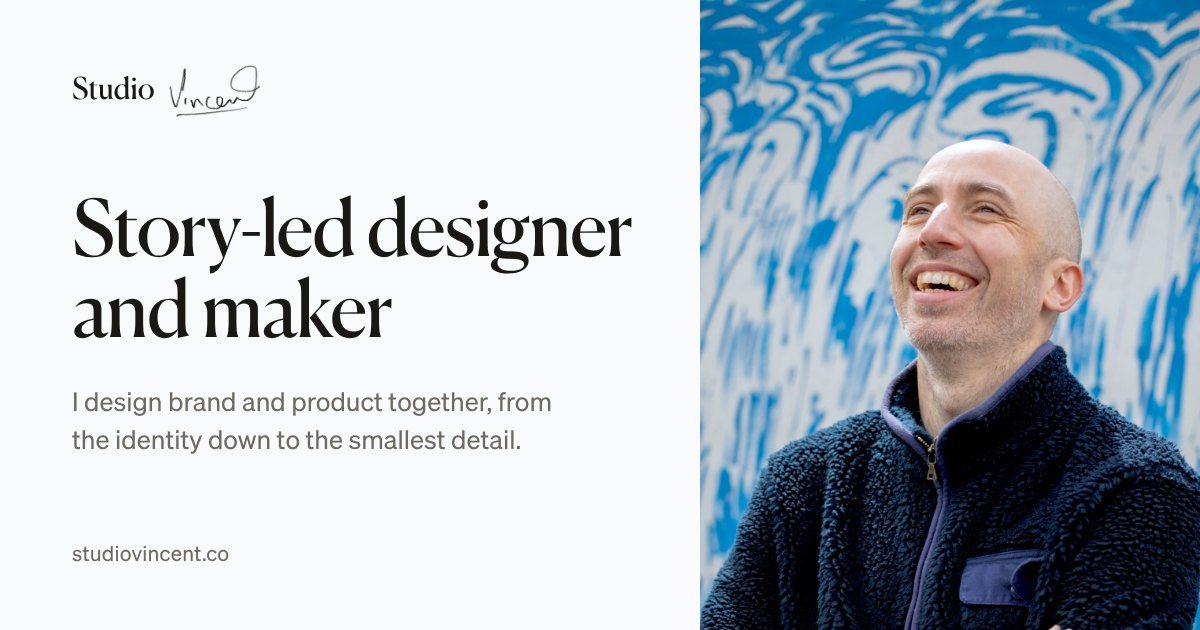
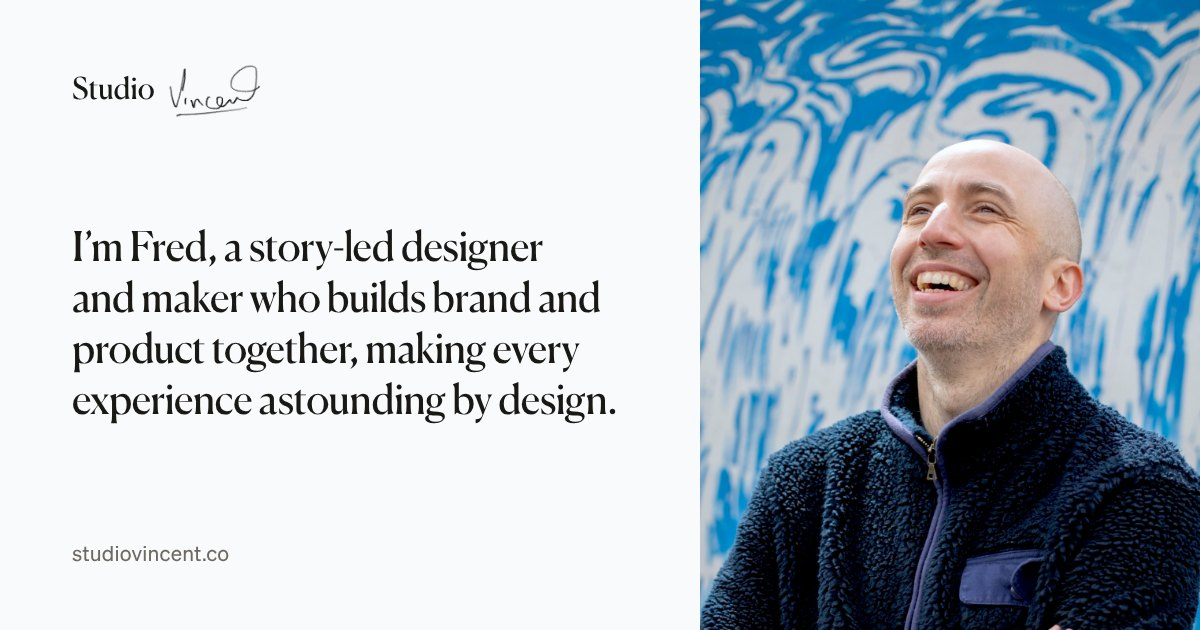
Sharing card: Fred's one-line introduction, brand mark aligned as on the site
Claude-Session: https://claude.ai/code/session_01LS82oaixLLZyT7ZmLC41yq

Changed region(s): [[0.0617, 0.3016, 0.5242, 0.7238]]

diff --git a/index.html b/index.html
@@ -4,22 +4,24 @@
 <meta charset="utf-8">
 <meta name="viewport" content="width=device-width, initial-scale=1, viewport-fit=cover">
 <title>Fred Vincent · Story-led designer and maker</title>
-<meta name="description" content="I design brand and product together, from the identity down to the smallest detail. Conversational, story-led design, in Berlin and London.">
+<meta name="description" content="I’m Fred, a story-led designer and maker who builds brand and product together, making every experience astounding by design.">
 
 <link rel="canonical" href="https://www.studiovincent.co/">
 <meta property="og:type" content="website">
 <meta property="og:url" content="https://www.studiovincent.co/">
 <meta property="og:title" content="Fred Vincent · Story-led designer and maker">
-<meta property="og:description" content="I design brand and product together, from the identity down to the smallest detail. Conversational, story-led design, in Berlin and London.">
+<meta property="og:description" content="I’m Fred, a story-led designer and maker who builds brand and product together, making every experience astounding by design.">
 <meta property="og:image" content="https://www.studiovincent.co/share-card-2026-11.jpg">
+<meta property="og:image:type" content="image/jpeg">
 <meta property="og:image:width" content="1200">
 <meta property="og:image:height" content="630">
-<meta property="og:image:alt" content="Fred Vincent, laughing, beside the words: Story-led designer and maker.">
+<meta property="og:image:alt" content="Fred Vincent, laughing, beside the words: I’m Fred, a story-led designer and maker who builds brand and product together, making every experience astounding by design.">
 <meta property="og:site_name" content="Studio Vincent">
 <meta name="twitter:card" content="summary_large_image">
 <meta name="twitter:title" content="Fred Vincent · Story-led designer and maker">
-<meta name="twitter:description" content="I design brand and product together, from the identity down to the smallest detail. Conversational, story-led design, in Berlin and London.">
+<meta name="twitter:description" content="I’m Fred, a story-led designer and maker who builds brand and product together, making every experience astounding by design.">
 <meta name="twitter:image" content="https://www.studiovincent.co/share-card-2026-11.jpg">
+<meta name="twitter:image:alt" content="Fred Vincent, laughing, beside the words: I’m Fred, a story-led designer and maker who builds brand and product together, making every experience astounding by design.">
 <link rel="icon" href="/favicons/favicon-32x32.png">
 <link rel="preconnect" href="https://fonts.googleapis.com"><link rel="preconnect" href="https://fonts.gstatic.com" crossorigin>
 <link href="https://fonts.googleapis.com/css2?family=Cormorant+Garamond:wght@300;500&display=swap" rel="stylesheet">

diff --git a/about/index.html b/about/index.html
@@ -29,18 +29,20 @@
 <meta property="og:title" content="About — Fred Vincent | Studio Vincent">
 <meta property="og:description" content="Designer and founder. Twelve years in product, fine arts trained. Currently running Studio Vincent and living in Berlin.">
 <meta property="og:image" content="https://www.studiovincent.co/share-card-2026-11.jpg">
+<meta property="og:image:type" content="image/jpeg">
 <meta property="og:image:width" content="1200">
 <meta property="og:image:height" content="630">
-<meta property="og:image:alt" content="Fred Vincent, laughing, beside the words: Story-led designer and maker.">
+<meta property="og:image:alt" content="Fred Vincent, laughing, beside the words: I’m Fred, a story-led designer and maker who builds brand and product together, making every experience astounding by design.">
 <meta property="og:image:width" content="1480">
 <meta property="og:image:height" content="1600">
-<meta property="og:image:alt" content="Fred Vincent portrait">
+<meta property="og:image:alt" content="Fred Vincent, laughing, beside the words: I’m Fred, a story-led designer and maker who builds brand and product together, making every experience astounding by design.">
 
 <!-- Twitter -->
 <meta name="twitter:card" content="summary_large_image">
 <meta name="twitter:title" content="About — Fred Vincent | Studio Vincent">
 <meta name="twitter:description" content="Designer and founder. Twelve years in product, fine arts trained. Currently running Studio Vincent and living in Berlin.">
 <meta name="twitter:image" content="https://www.studiovincent.co/share-card-2026-11.jpg">
+<meta name="twitter:image:alt" content="Fred Vincent, laughing, beside the words: I’m Fred, a story-led designer and maker who builds brand and product together, making every experience astounding by design.">
 
 <link rel="preconnect" href="https://fonts.googleapis.com">
 <link rel="preconnect" href="https://fonts.gstatic.com" crossorigin>

diff --git a/work/gastfreund-shift-change/index.html b/work/gastfreund-shift-change/index.html
@@ -33,18 +33,20 @@
 <meta property="og:title" content="Shift change">
 <meta property="og:description" content="How we worked out who Gastfreund's hotel product was really for, and rebuilt it around the one moment the front desk actually cared about.">
 <meta property="og:image" content="https://www.studiovincent.co/share-card-2026-11.jpg">
+<meta property="og:image:type" content="image/jpeg">
 <meta property="og:image:width" content="1200">
 <meta property="og:image:height" content="630">
-<meta property="og:image:alt" content="Fred Vincent, laughing, beside the words: Story-led designer and maker.">
+<meta property="og:image:alt" content="Fred Vincent, laughing, beside the words: I’m Fred, a story-led designer and maker who builds brand and product together, making every experience astounding by design.">
 <meta property="og:image:width" content="1480">
 <meta property="og:image:height" content="1600">
-<meta property="og:image:alt" content="Studio Vincent. Fred Vincent portrait.">
+<meta property="og:image:alt" content="Fred Vincent, laughing, beside the words: I’m Fred, a story-led designer and maker who builds brand and product together, making every experience astounding by design.">
 
 <!-- Twitter Card -->
 <meta name="twitter:card" content="summary_large_image">
 <meta name="twitter:title" content="Shift change">
 <meta name="twitter:description" content="How we worked out who Gastfreund's hotel product was really for, and rebuilt it around the one moment the front desk actually cared about.">
 <meta name="twitter:image" content="https://www.studiovincent.co/share-card-2026-11.jpg">
+<meta name="twitter:image:alt" content="Fred Vincent, laughing, beside the words: I’m Fred, a story-led designer and maker who builds brand and product together, making every experience astounding by design.">
 
 <script type="application/ld+json">
 {

diff --git a/lab/atlas/index.html b/lab/atlas/index.html
@@ -10,13 +10,15 @@
 <meta property="og:title" content="Warburg's Atlas · Studio Vincent">
 <meta property="og:description" content="A work in progress: a plate for reading images closely and linking them, after Aby Warburg's Mnemosyne Atlas.">
 <meta property="og:image" content="https://www.studiovincent.co/share-card-2026-11.jpg">
+<meta property="og:image:type" content="image/jpeg">
 <meta property="og:image:width" content="1200">
 <meta property="og:image:height" content="630">
-<meta property="og:image:alt" content="Fred Vincent, laughing, beside the words: Story-led designer and maker.">
+<meta property="og:image:alt" content="Fred Vincent, laughing, beside the words: I’m Fred, a story-led designer and maker who builds brand and product together, making every experience astounding by design.">
 <meta name="twitter:card" content="summary_large_image">
 <meta name="twitter:title" content="Warburg's Atlas · Studio Vincent">
 <meta name="twitter:description" content="A work in progress: a plate for reading images closely and linking them, after Aby Warburg's Mnemosyne Atlas.">
 <meta name="twitter:image" content="https://www.studiovincent.co/share-card-2026-11.jpg">
+<meta name="twitter:image:alt" content="Fred Vincent, laughing, beside the words: I’m Fred, a story-led designer and maker who builds brand and product together, making every experience astounding by design.">
 <meta name="description" content="A work in progress: a plate for reading images closely and linking them, after Aby Warburg's Mnemosyne Atlas.">
 <link rel="icon" href="/favicons/favicon-32x32.png">
 <link rel="preconnect" href="https://fonts.googleapis.com"><link rel="preconnect" href="https://fonts.gstatic.com" crossorigin>

diff --git a/lab/stories/drawing-the-linro-mark/index.html b/lab/stories/drawing-the-linro-mark/index.html
@@ -10,13 +10,15 @@
 <meta property="og:title" content="Drawing the Linro wordmark · Studio Vincent">
 <meta property="og:description" content="How a security product's own idea, lineage, became its wordmark, its interface and its terminal.">
 <meta property="og:image" content="https://www.studiovincent.co/share-card-2026-11.jpg">
+<meta property="og:image:type" content="image/jpeg">
 <meta property="og:image:width" content="1200">
 <meta property="og:image:height" content="630">
-<meta property="og:image:alt" content="Fred Vincent, laughing, beside the words: Story-led designer and maker.">
+<meta property="og:image:alt" content="Fred Vincent, laughing, beside the words: I’m Fred, a story-led designer and maker who builds brand and product together, making every experience astounding by design.">
 <meta name="twitter:card" content="summary_large_image">
 <meta name="twitter:title" content="Drawing the Linro wordmark · Studio Vincent">
 <meta name="twitter:description" content="How a security product's own idea, lineage, became its wordmark, its interface and its terminal.">
 <meta name="twitter:image" content="https://www.studiovincent.co/share-card-2026-11.jpg">
+<meta name="twitter:image:alt" content="Fred Vincent, laughing, beside the words: I’m Fred, a story-led designer and maker who builds brand and product together, making every experience astounding by design.">
 <meta name="description" content="How a security product's own idea, lineage, became its wordmark, its interface and its terminal.">
 <link rel="icon" href="/favicons/favicon-32x32.png">
 <link rel="preconnect" href="https://fonts.googleapis.com"><link rel="preconnect" href="https://fonts.gstatic.com" crossorigin>

diff --git a/lab/index.html b/lab/index.html
@@ -10,13 +10,15 @@
 <meta property="og:title" content="Lab · Studio Vincent">
 <meta property="og:description" content="Short stories written in interactions, art projects, experiments and storytelling, added as they happen.">
 <meta property="og:image" content="https://www.studiovincent.co/share-card-2026-11.jpg">
+<meta property="og:image:type" content="image/jpeg">
 <meta property="og:image:width" content="1200">
 <meta property="og:image:height" content="630">
-<meta property="og:image:alt" content="Fred Vincent, laughing, beside the words: Story-led designer and maker.">
+<meta property="og:image:alt" content="Fred Vincent, laughing, beside the words: I’m Fred, a story-led designer and maker who builds brand and product together, making every experience astounding by design.">
 <meta name="twitter:card" content="summary_large_image">
 <meta name="twitter:title" content="Lab · Studio Vincent">
 <meta name="twitter:description" content="Short stories written in interactions, art projects, experiments and storytelling, added as they happen.">
 <meta name="twitter:image" content="https://www.studiovincent.co/share-card-2026-11.jpg">
+<meta name="twitter:image:alt" content="Fred Vincent, laughing, beside the words: I’m Fred, a story-led designer and maker who builds brand and product together, making every experience astounding by design.">
 <meta name="description" content="Short stories written in interactions, art projects, experiments and storytelling, added as they happen.">
 <link rel="icon" href="/favicons/favicon-32x32.png">
 <link rel="preconnect" href="https://fonts.googleapis.com"><link rel="preconnect" href="https://fonts.gstatic.com" crossorigin>

diff --git a/lab/stories/effort-not-pace/index.html b/lab/stories/effort-not-pace/index.html
@@ -10,13 +10,15 @@
 <meta property="og:title" content="Effort, not pace · Studio Vincent">
 <meta property="og:description" content="Why Kaizen asks runners how hard a run should feel, rather than how fast it should be.">
 <meta property="og:image" content="https://www.studiovincent.co/share-card-2026-11.jpg">
+<meta property="og:image:type" content="image/jpeg">
 <meta property="og:image:width" content="1200">
 <meta property="og:image:height" content="630">
-<meta property="og:image:alt" content="Fred Vincent, laughing, beside the words: Story-led designer and maker.">
+<meta property="og:image:alt" content="Fred Vincent, laughing, beside the words: I’m Fred, a story-led designer and maker who builds brand and product together, making every experience astounding by design.">
 <meta name="twitter:card" content="summary_large_image">
 <meta name="twitter:title" content="Effort, not pace · Studio Vincent">
 <meta name="twitter:description" content="Why Kaizen asks runners how hard a run should feel, rather than how fast it should be.">
 <meta name="twitter:image" content="https://www.studiovincent.co/share-card-2026-11.jpg">
+<meta name="twitter:image:alt" content="Fred Vincent, laughing, beside the words: I’m Fred, a story-led designer and maker who builds brand and product together, making every experience astounding by design.">
 <meta name="description" content="Why Kaizen asks runners how hard a run should feel, rather than how fast it should be.">
 <link rel="icon" href="/favicons/favicon-32x32.png">
 <link rel="preconnect" href="https://fonts.googleapis.com"><link rel="preconnect" href="https://fonts.gstatic.com" crossorigin>

diff --git a/lab/stories/week-to-week/index.html b/lab/stories/week-to-week/index.html
@@ -10,13 +10,15 @@
 <meta property="og:title" content="Week to week · Studio Vincent">
 <meta property="og:description" content="How Kaizen lays a training plan out as a timeline you flick through, one week at a time.">
 <meta property="og:image" content="https://www.studiovincent.co/share-card-2026-11.jpg">
+<meta property="og:image:type" content="image/jpeg">
 <meta property="og:image:width" content="1200">
 <meta property="og:image:height" content="630">
-<meta property="og:image:alt" content="Fred Vincent, laughing, beside the words: Story-led designer and maker.">
+<meta property="og:image:alt" content="Fred Vincent, laughing, beside the words: I’m Fred, a story-led designer and maker who builds brand and product together, making every experience astounding by design.">
 <meta name="twitter:card" content="summary_large_image">
 <meta name="twitter:title" content="Week to week · Studio Vincent">
 <meta name="twitter:description" content="How Kaizen lays a training plan out as a timeline you flick through, one week at a time.">
 <meta name="twitter:image" content="https://www.studiovincent.co/share-card-2026-11.jpg">
+<meta name="twitter:image:alt" content="Fred Vincent, laughing, beside the words: I’m Fred, a story-led designer and maker who builds brand and product together, making every experience astounding by design.">
 <meta name="description" content="How Kaizen lays a training plan out as a timeline you flick through, one week at a time.">
 <link rel="icon" href="/favicons/favicon-32x32.png">
 <link rel="preconnect" href="https://fonts.googleapis.com"><link rel="preconnect" href="https://fonts.gstatic.com" crossorigin>
